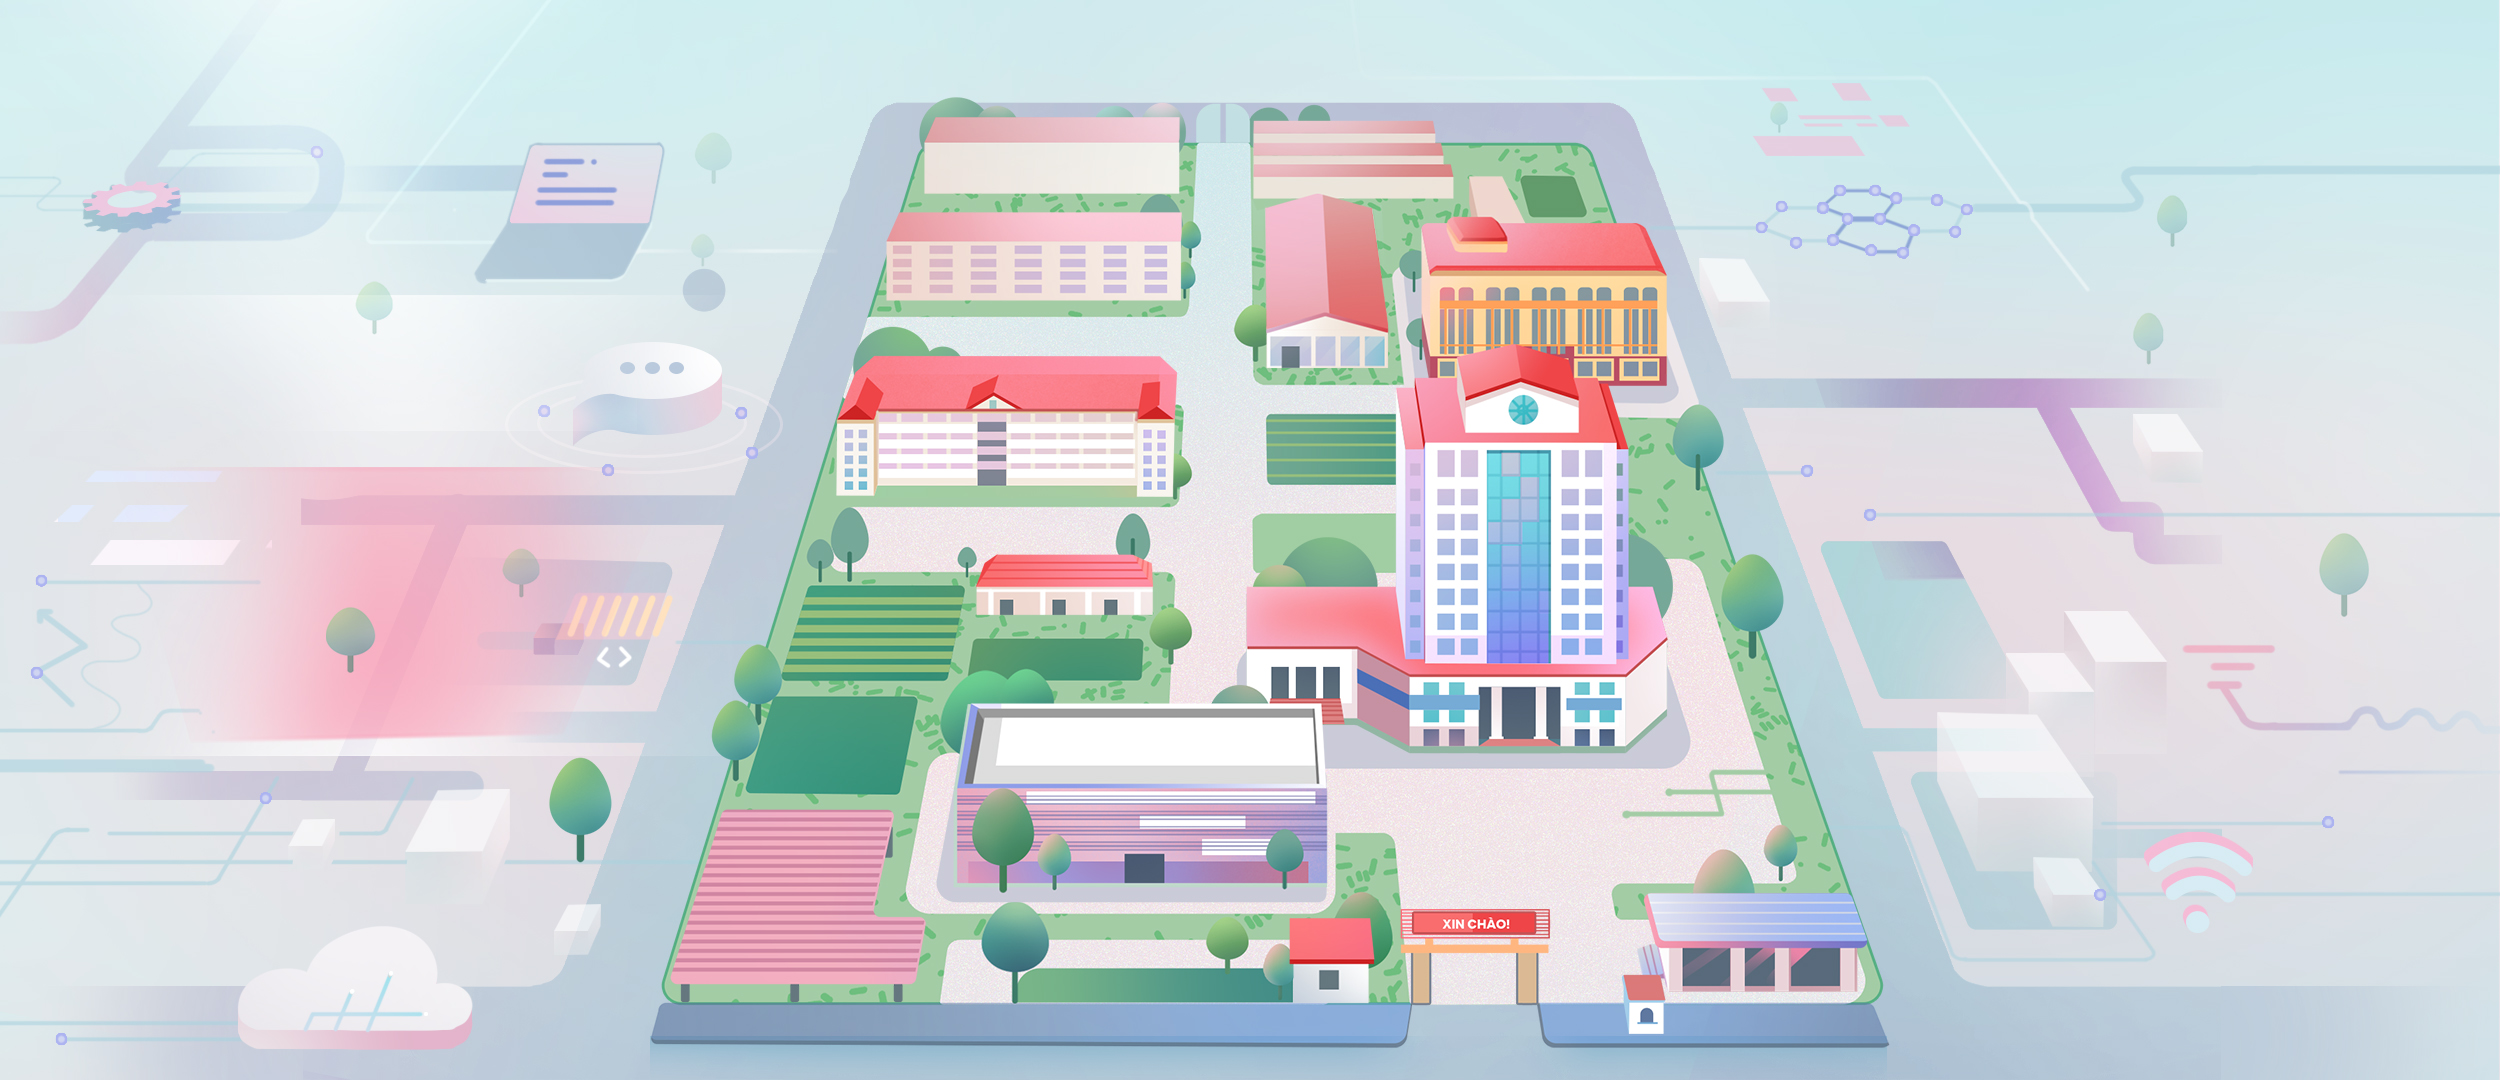
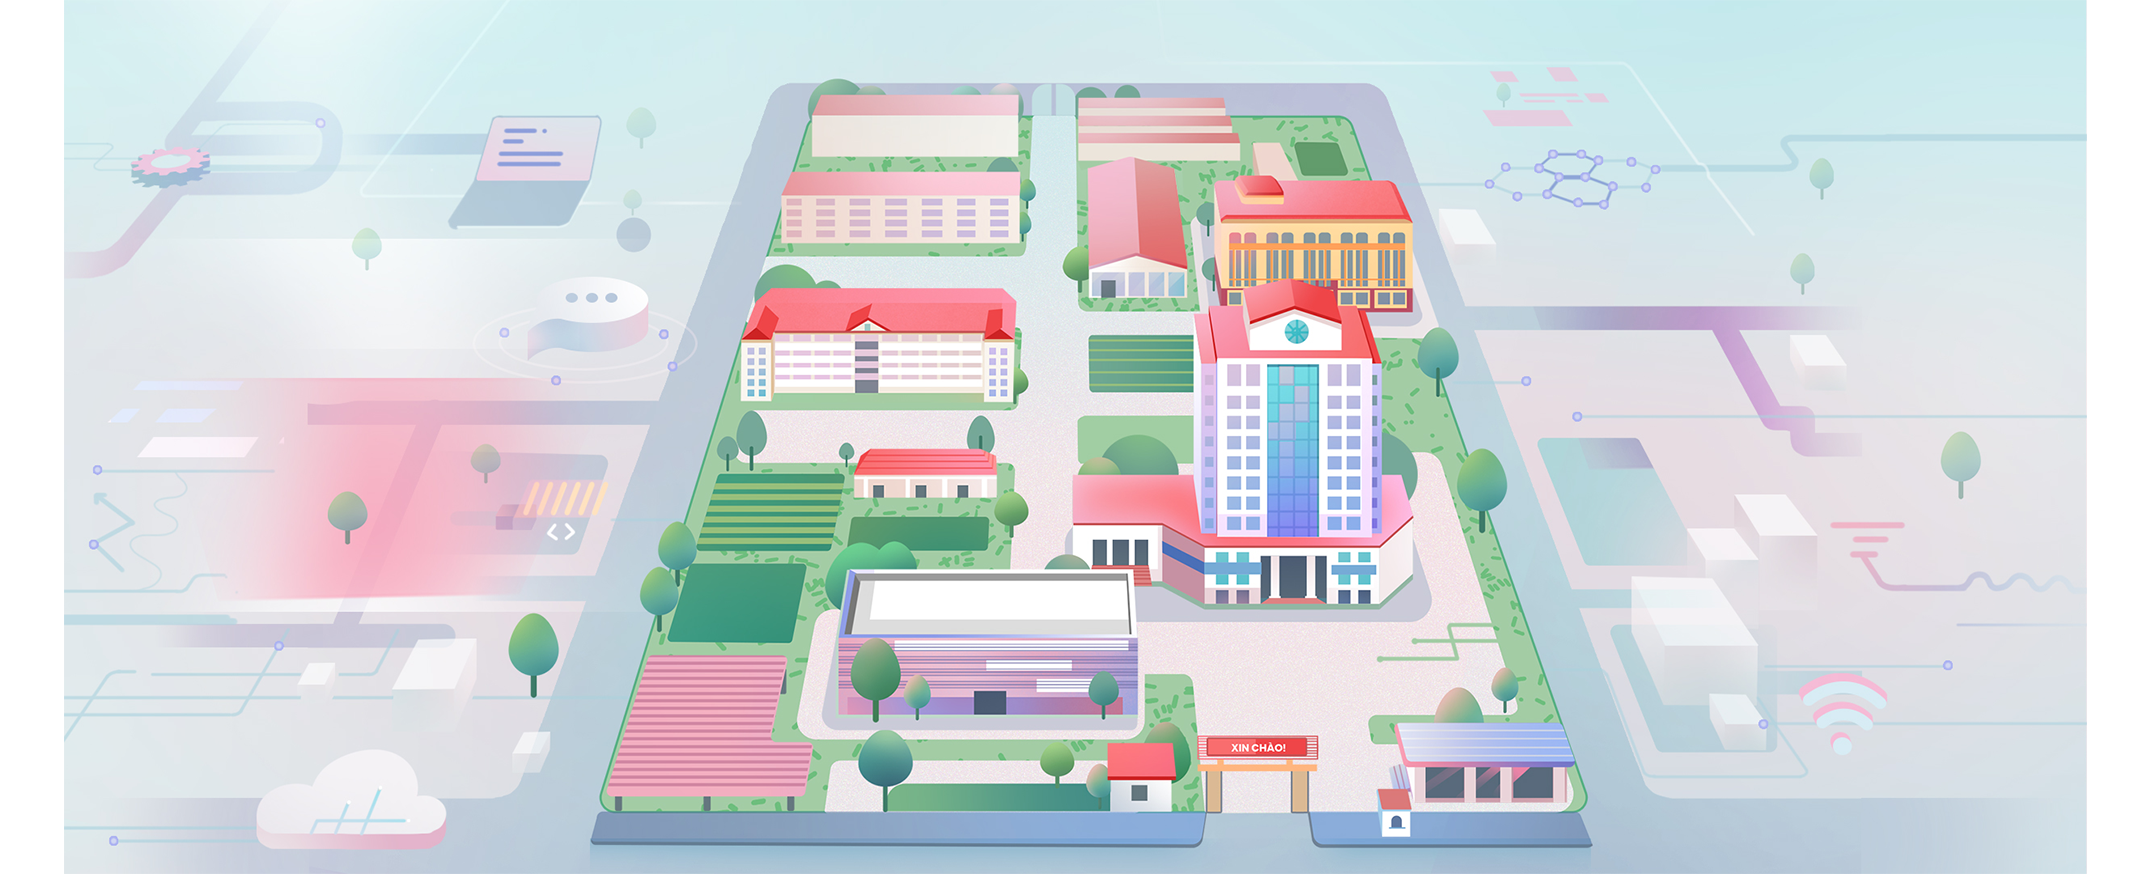
update mapreponsive

diff --git a/static/css/styles.css b/static/css/styles.css
@@ -692,8 +692,7 @@ footer a:hover {
     margin-left: -5%;
 }
 .prlx-ctn .city .bg img {
-    height: 100%;
-    width: auto;
+    width: 120%;
     margin-left: -10%;
 }
 .prlx-ctn .over {
@@ -1450,36 +1449,36 @@ ul.tabs li.current {
 
 /* RESPONSIVE CSS
 -------------------------------------------------- */
-@media screen and (min-width: 1600px) and (max-width:1920px) {
+/* @media screen and (min-width: 1600px)  { */
     #floor-a2{
-        top:33%;
-        left: 45%;
+        top:39%;left: 63%;
     }
     #floor-a1{
-       top:63%;left: 32%;
+       top:72%;left: 45%;
     }
     #floor-a3{
-        top:22%;left: 43%;
+        top:25%;left: 61%;
     }
     #floor-hta1{
-        top:49%;left: 29%;
+        top:57%;left: 41%;
     }
     #floor-ct{
-       top:24%;left: 37%;
+        top:27%;left: 53%;
     }
     #floor-b5{
-        top:34%;left: 28%;
+        top:40%;left: 40%;
     }
     #floor-mc{
-       top:77%;left: 53%;
+       top:90%;left: 72%;
     }
-    #right-slider{
-        top: 25%; right: 17%;
+    #right-slider {
+        top: 25%;
+        left: 87%;
     }
     .slider-map{
         width: 327px;
     }
-
+/* 
   }
   @media screen and (min-width: 1366px) and (max-width:1599px) {
     #floor-a2{
@@ -1519,7 +1518,7 @@ ul.tabs li.current {
         width: 261px;
     }
 
-  }
+  } */
 
 
 
